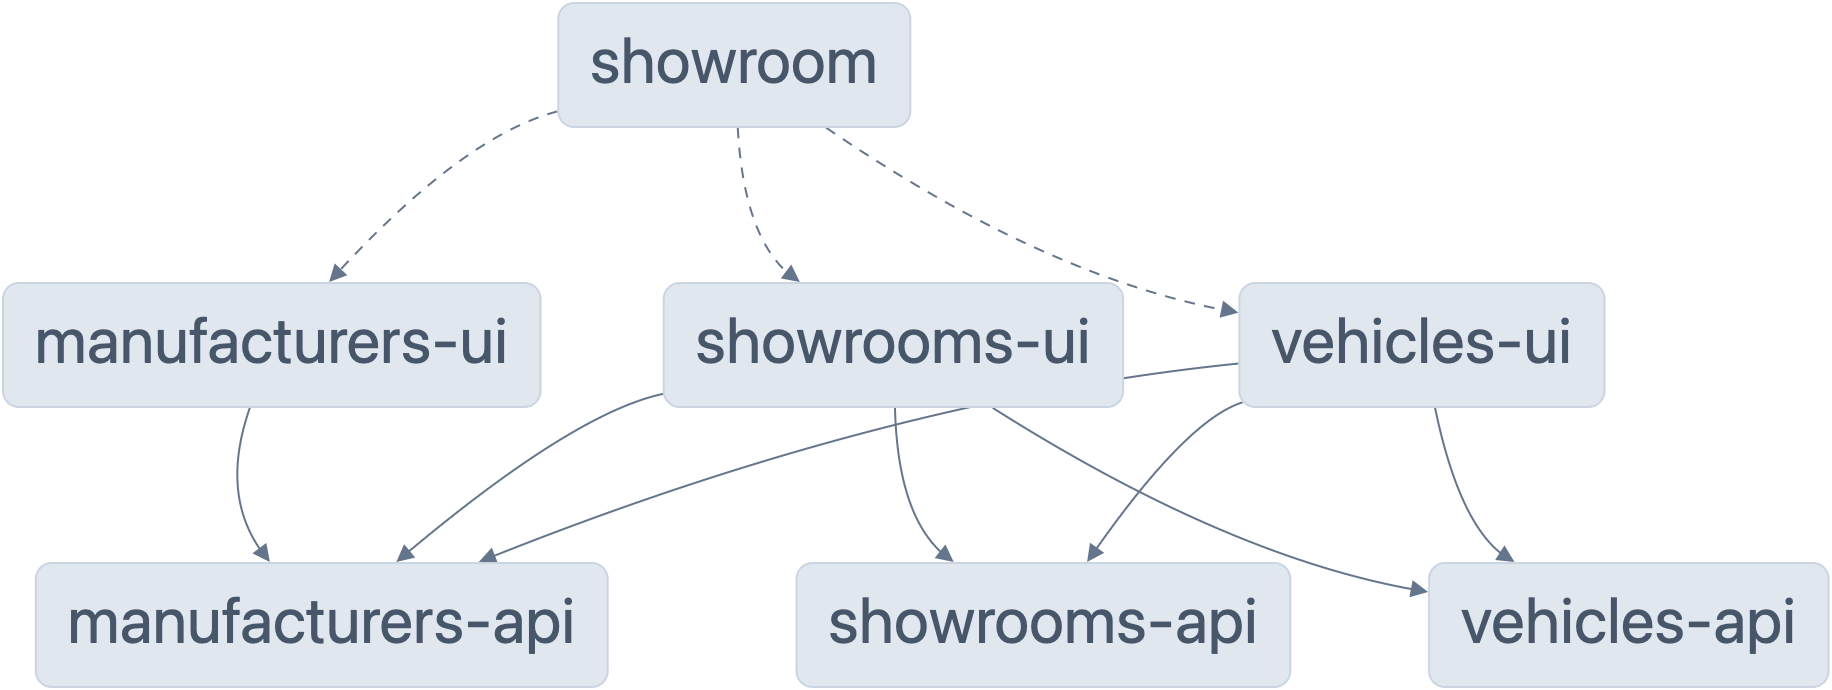
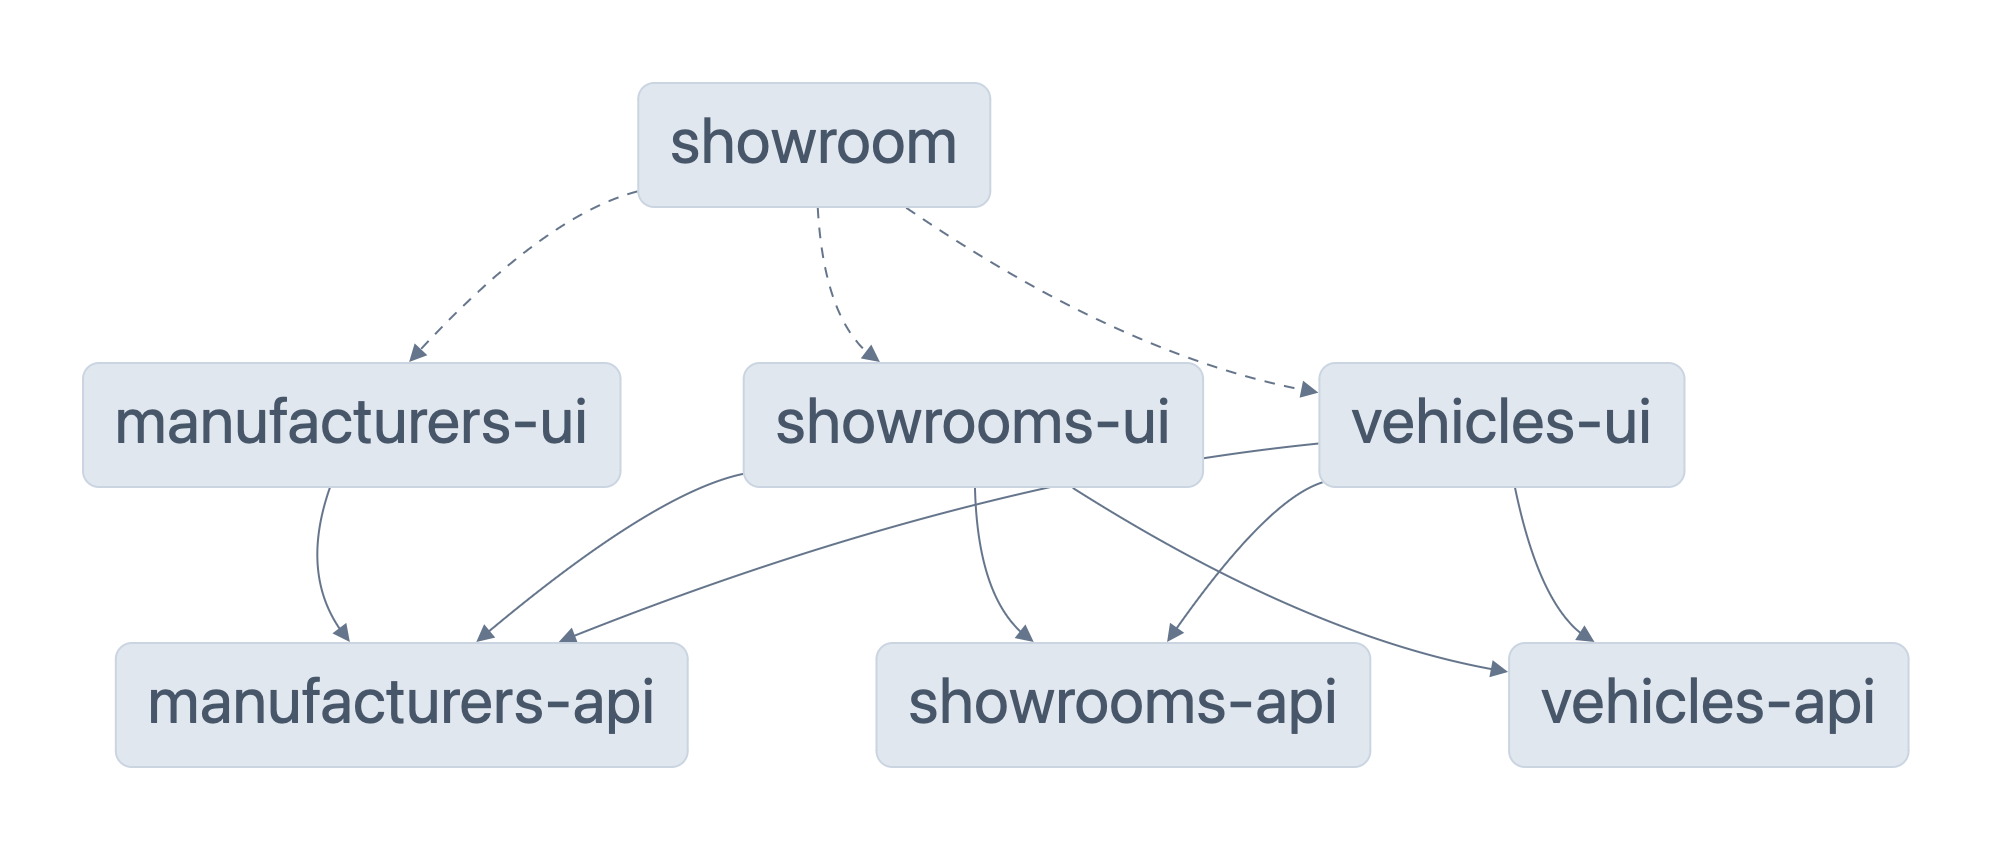
Added padding to images and added state lifecycle

diff --git a/docs/ngrx.md b/docs/ngrx.md
@@ -2,9 +2,19 @@
 
 ## Why NgRx?
 
-As with all aspects in development, as applications increase in features more patterns and concepts are realised in order to maintain stability, limit complexity and maximise reuse. Historically, consuming data has been a relatively straight-forward process of HTTP requests and displaying response data, but as front-end technologies have evolved we are doing more and more with data on the client-side and state management has become a necessity for most modern applications, especially single page applications or progressive web apps where there is less reliance on server-side.
+As with all aspects in software development, as applications increase in features more patterns and concepts are realised in order to maintain stability, limit complexity and maximise reuse. Historically, consuming data has been a relatively straight-forward process of HTTP requests and displaying response data, but as front-end technologies have evolved and consumer devices have become more capable, we are doing more and more with data on the client-side and state management has become a necessity for most modern applications, especially single page applications or progressive web apps where there is arguably less reliance on server-side processes.
+
+### NgRx ♥ RxJS
+
+RxJS has been a fundamental technology to many aspects of Angular since its conception. NgRx utilises RxJS to deliver a uni-directional and immutable state data stream.
+
+### NgRx State Management Lifecycle
+
+![State Management Lifecycle](./assets/state-management-lifecycle.png)
 
 ## Store Combination
+
+Many use-cases require interacting with multiple stores.
 
 ### Module Architecture
 
